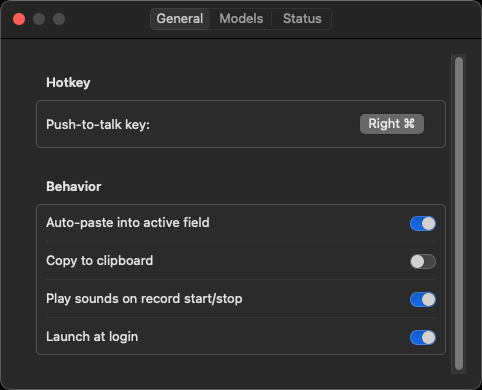
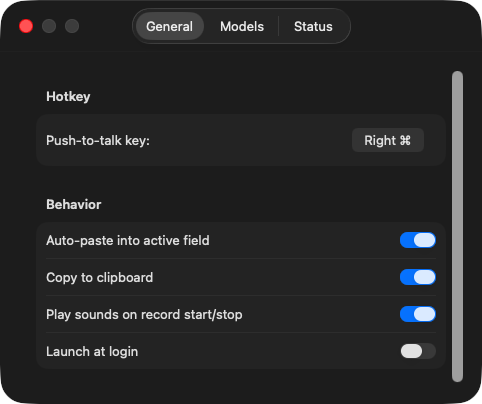
New screenshots and a README that matches the app
- Screenshots show the pink glass recording dot and the current Settings
  tabs (the old ones still said WhisperKey)
- Explain how to sign with your own Apple account so it builds for anyone
- Speed, dot color, hotkey, and model notes match how the app works now
- Privacy section says the text of the last 5 recordings is saved

diff --git a/README.md b/README.md
@@ -13,7 +13,7 @@ it works everywhere and it doesn't send your voice anywhere. The
 listening and the typing both happen on your own Mac.
 
 <p align="center">
-  <img src="screenshots/recording-window.png" width="300" alt="The little window that shows while you're talking">
+  <img src="screenshots/recording-dot.png" width="300" alt="The pink glass dot that shows on the left edge of the screen while you're talking">
 </p>
 
 <p align="center">
@@ -30,12 +30,12 @@ listening and the typing both happen on your own Mac.
 | ✍ **Types it for you** | Pastes the words where your cursor is, and keeps a copy on the clipboard too. |
 | 🔒 **Stays on your Mac** | No accounts, no cloud, no subscription. Your voice never leaves the computer. |
 | 👀 **Shows it's listening** | A small pink glass dot on the left edge of the screen pulses while it's recording, so you're never guessing. |
-| 🕘 **Remembers the last 5** | Click the pink dot in the menu bar to copy any of your last 5 recordings again. |
+| 🕘 **Remembers the last 5** | Click the rose dot in the menu bar to copy any of your last 5 recordings again. |
 | ⬇ **Sets itself up** | Downloads the speech model the first time it opens. |
 | 🚀 **Opens with your Mac** | If you want it to. |
 
-Around 10 seconds of talking turns into text in about 3 seconds on an
-Apple Silicon Mac.
+About 7 seconds of talking turns into text in under a second on an M1
+Mac, using the Small English model.
 
 ## What you need
 
@@ -51,7 +51,20 @@ cd leak-flow                                            # go into the folder
 open LeakFlow.xcodeproj                                 # open it in Xcode
 ```
 
+Before it will build, Xcode needs to know whose Apple account to sign the
+app with (the project is set to mine, which you won't have):
+
+1. In Xcode, click **LeakFlow** at the very top of the file list on the left.
+2. Click **Signing & Capabilities**.
+3. Under **Team**, pick your own Apple account. A free one works. If you
+   don't see it, add it in **Xcode → Settings → Accounts**.
+4. Do the same for **LeakFlowTests** in the list of targets.
+
 Then press **Cmd+R** in Xcode to build it and open it.
+
+Why bother? macOS remembers the Microphone and Accessibility permissions
+by who signed the app. Signing with your own account means you only turn
+them on once, instead of after every rebuild.
 
 There's also a `Makefile` for making a zipped copy of the app:
 
@@ -61,12 +74,12 @@ make zip   # builds the app and zips it into build/LeakFlow.zip
 
 ## Using it
 
-1. Open Leak Flow. A small pink dot shows up in the menu bar.
+1. Open Leak Flow. A small rose-colored dot shows up in the menu bar.
 2. Say yes to the **Microphone** and **Accessibility** permissions.
 3. The first time, it downloads the speech model (about 150 MB). Give it
    a minute.
 4. **Hold your key**, talk, **let go**.
-5. Your words get pasted in, and copied to the clipboard. Click the pink
+5. Your words get pasted in, and copied to the clipboard. Click the rose
    dot to see your last 5 recordings with their times, and click one to
    copy it again.
 
@@ -83,9 +96,10 @@ Leak Flow walks you through both the first time it opens.
 
 Click the menu bar icon, then **Settings**:
 
-- **Hotkey:** click "Record Shortcut" and press the key you want to use.
-- **Model:** base.en is faster (about 150 MB). small.en is more accurate
-  (about 500 MB).
+- **Hotkey:** click the button showing your current key, then press the
+  key you want to use.
+- **Models:** Base English is smaller (about 150 MB). Small English is much
+  more accurate (about 500 MB) and still quick, so it's the one to use.
 - **Auto-paste:** switch off if you only want it copied, not pasted.
 - **Sound effects:** a little sound when it starts and stops listening.
 - **Launch at login:** opens Leak Flow when you log in.
@@ -105,7 +119,9 @@ Each part does one job:
 - The only time it goes online is to download the speech model once.
 - No tracking, no analytics, nothing collected.
 - Recordings are kept in memory just long enough to become text, then
-  thrown away.
+  thrown away. The audio is never saved.
+- The **text** of your last 5 recordings is saved on your Mac so you can
+  copy them again from the menu. Older ones are deleted automatically.
 
 ## Thank you
 
